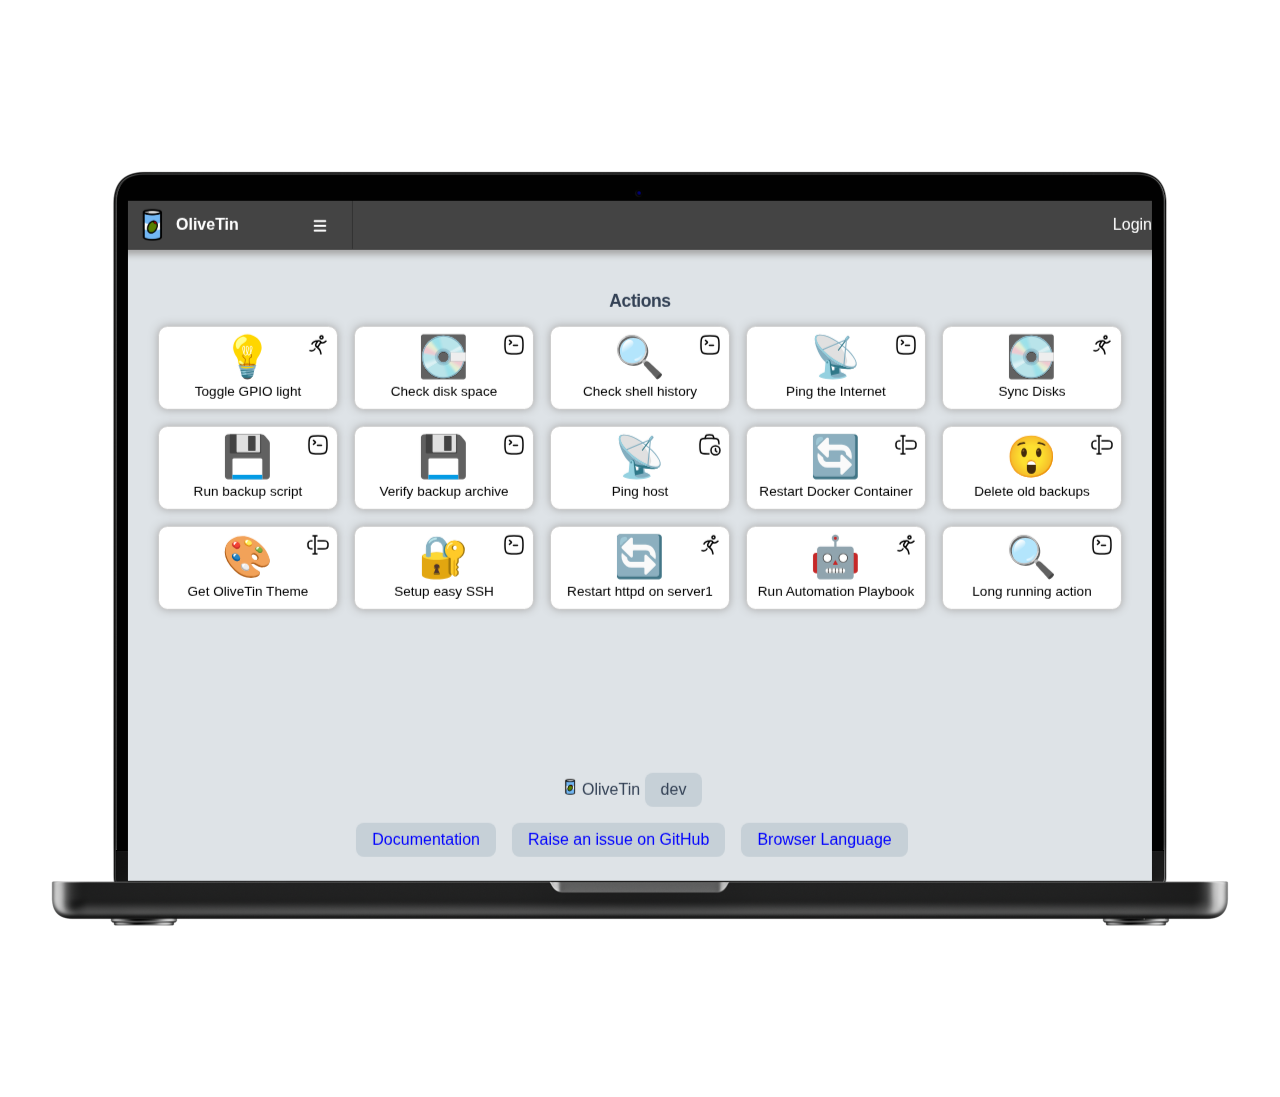
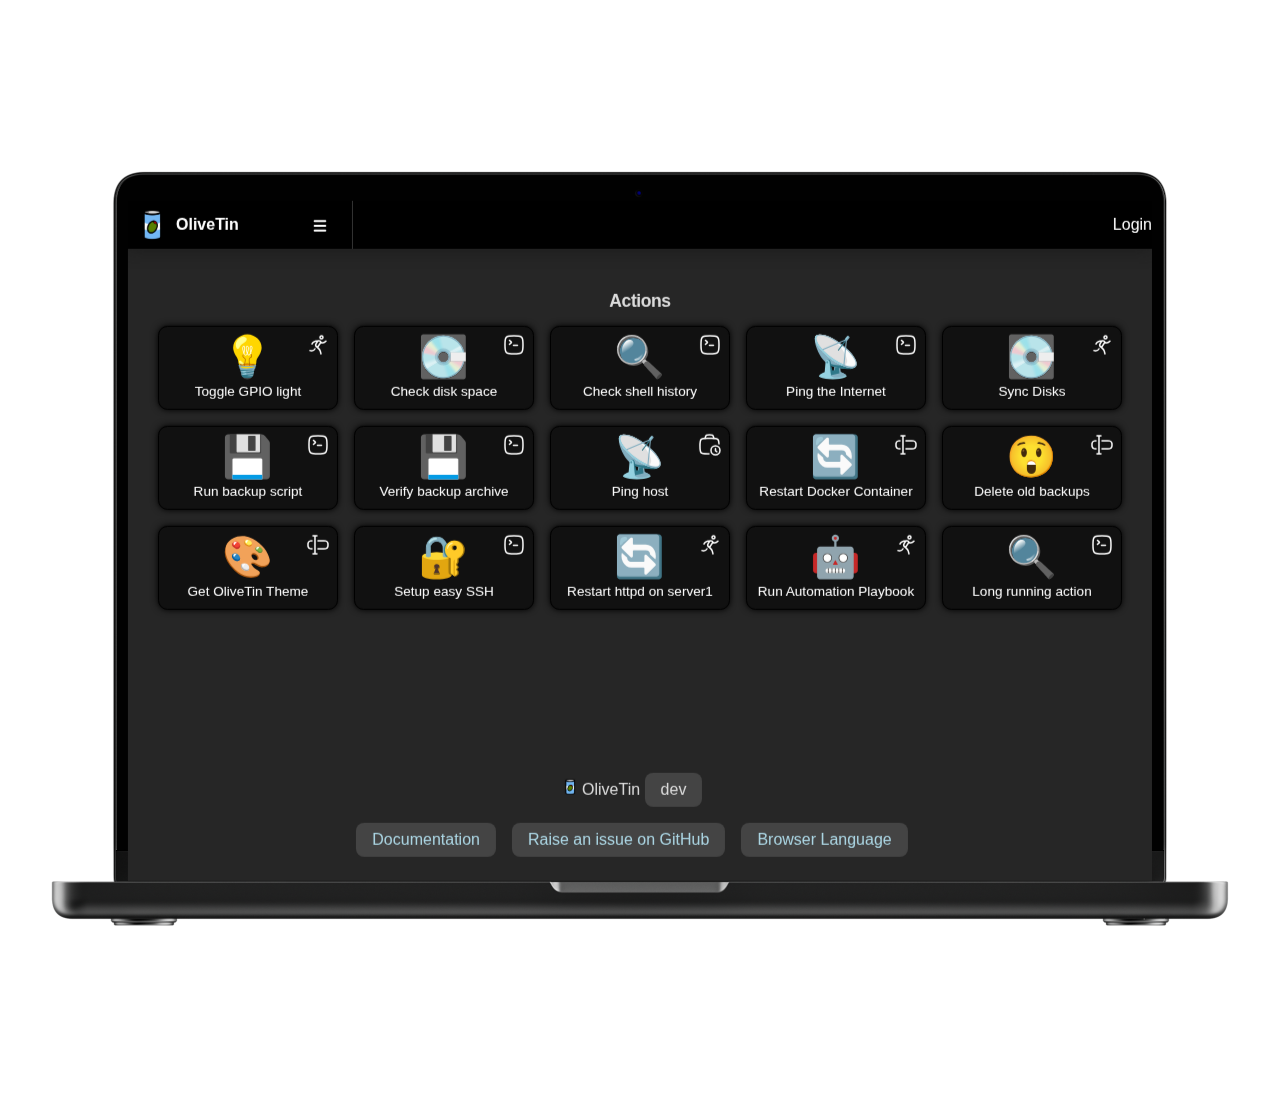
docs: Dark mode screenshots

diff --git a/var/marketing/resize_viewport.py b/var/marketing/resize_viewport.py
@@ -6,10 +6,19 @@ from selenium.webdriver.support.ui import WebDriverWait
 from repo_helper.screenshot import set_viewport_size
 
 
+def _enable_dark_mode(driver):
+    driver.execute_cdp_cmd(
+        "Emulation.setEmulatedMedia",
+        {"features": [{"name": "prefers-color-scheme", "value": "dark"}]},
+    )
+
+
 def run(driver):
     WebDriverWait(driver, 30).until(
         lambda d: bool(d.find_element(By.TAG_NAME, "body").get_attribute("loaded-dashboard"))
     )
+    if os.environ.get("SHOT_DARK") == "1":
+        _enable_dark_mode(driver)
     width = int(os.environ["SHOT_WIDTH"])
     height = int(os.environ["SHOT_HEIGHT"])
     set_viewport_size(driver, width, height)
